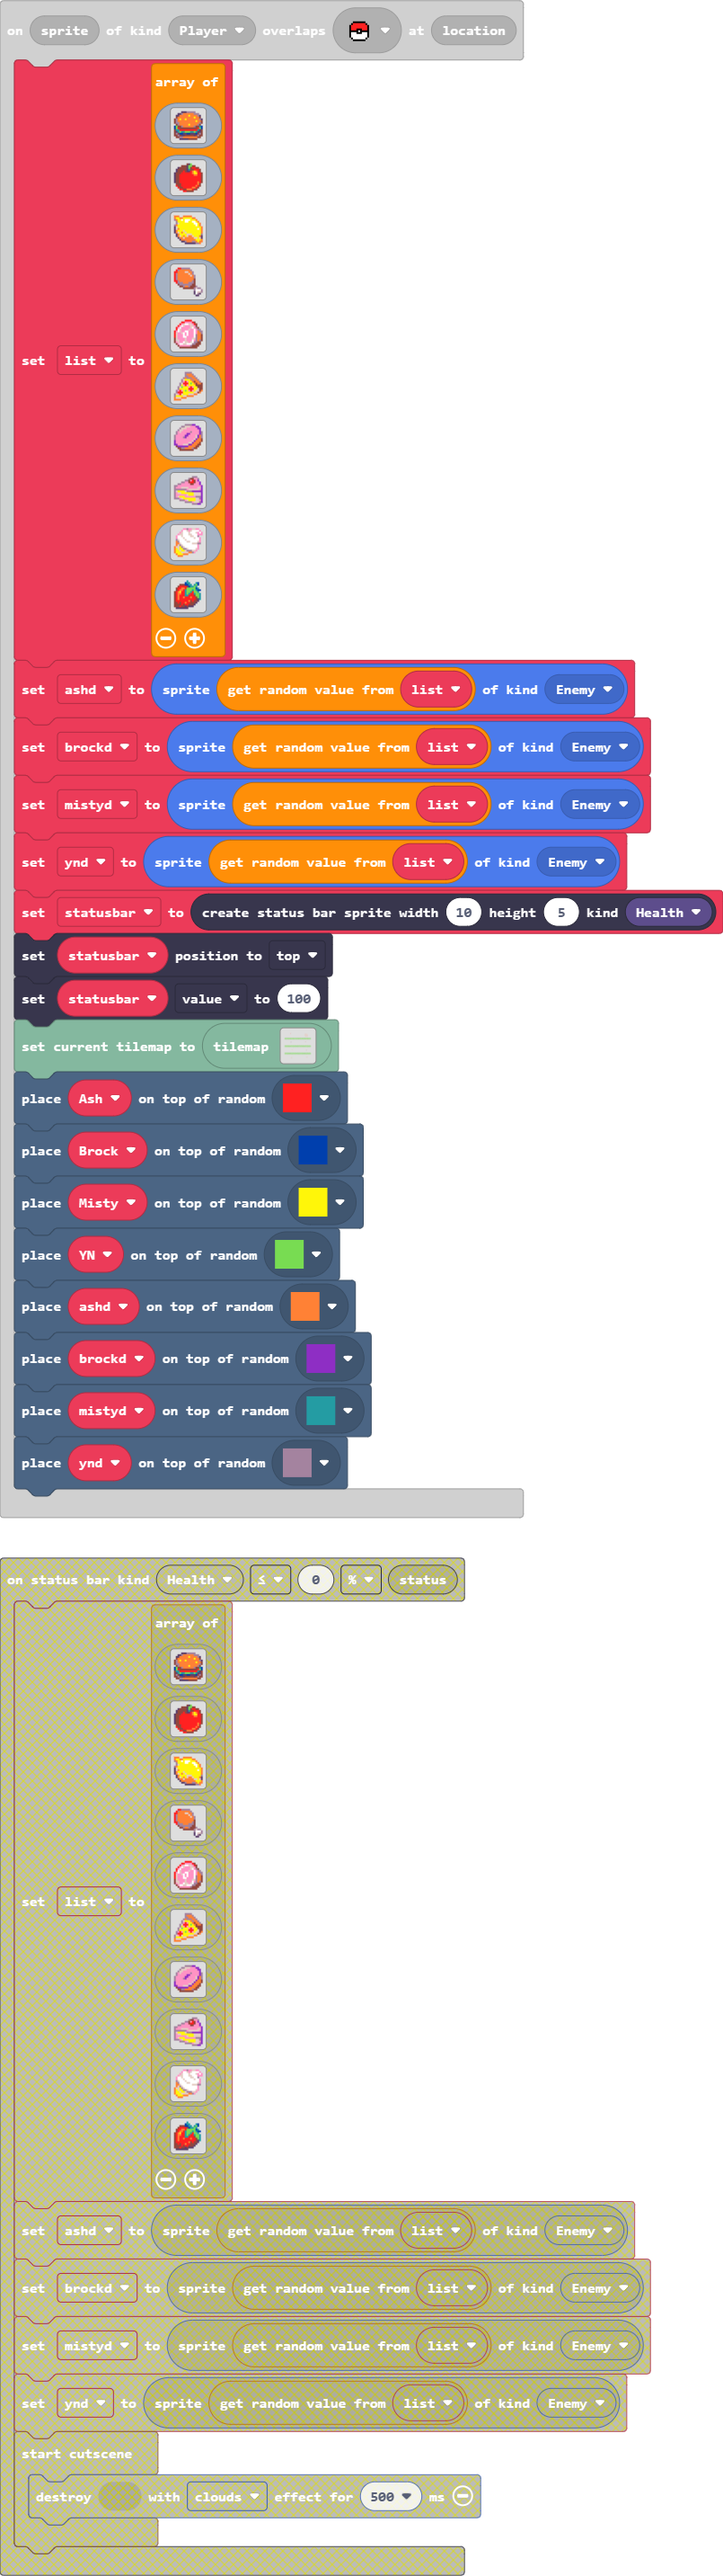
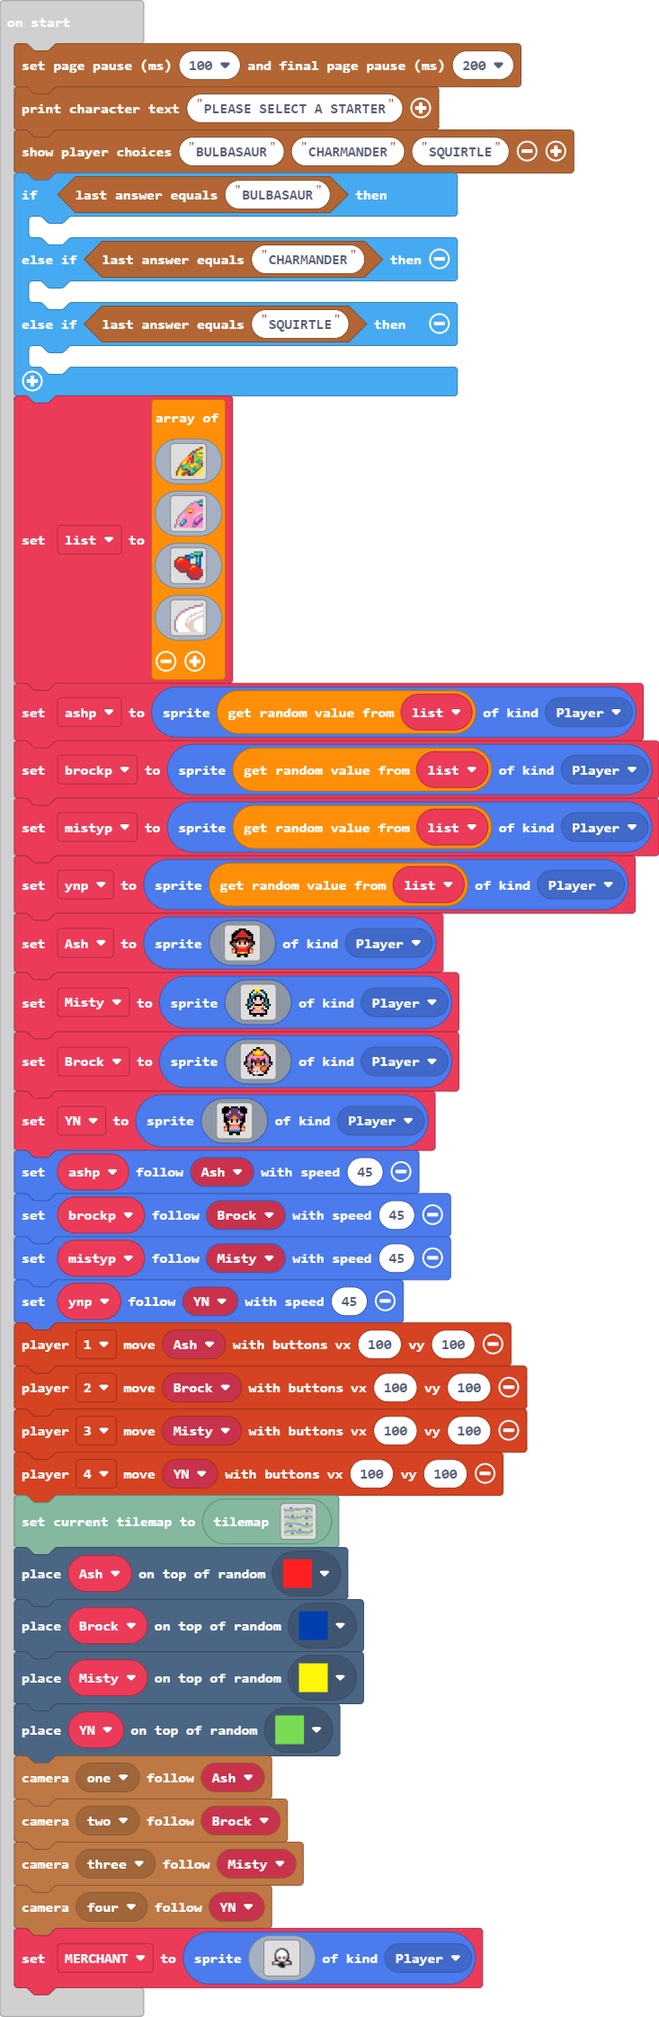
Update pxt.json, main.blocks, main.ts, tilemap.g.jres, tilemap.g.ts, images.g.jres, images.g.ts

diff --git a/tilemap.g.ts b/tilemap.g.ts
@@ -24,6 +24,8 @@ namespace myTiles {
     export const tile10 = image.ofBuffer(hex``);
     //% fixedInstance jres blockIdentity=images._tile
     export const tile11 = image.ofBuffer(hex``);
+    //% fixedInstance jres blockIdentity=images._tile
+    export const tile12 = image.ofBuffer(hex``);
 
     helpers._registerFactory("tilemap", function(name: string) {
         switch(helpers.stringTrim(name)) {
@@ -425,8 +427,27 @@ namespace myTiles {
 . . . . . . . . . . . . . . . . 
 . . . . . . . . . . . . . . . . 
 `, [myTiles.transparency16], TileScale.Sixteen);
+            case "level18":
+            case "level18":return tiles.createTilemap(hex`1000100000000000000000000000000000000000000000000000000000000000000000000000000000000000000000000000000000000000000000000000000000000000000000000000000000000000000000000000000000000000000000000000000000000000000000000000000000000000000000000000000000000000000000000000000000000000000000000000000000000000000000000000000000000000000000000000000000000000000000000000000000000000000000000000000000000000000000000000000000000000000000000000000000000000000000000000000000000000000000000000000000000000000000000000000000000000`, img`
+. . . . . . . . . . . . . . . . 
+. . . . . . . . . . . . . . . . 
+. . . . . . . . . . . . . . . . 
+. . . . . . . . . . . . . . . . 
+. . . . . . . . . . . . . . . . 
+. . . . . . . . . . . . . . . . 
+. . . . . . . . . . . . . . . . 
+. . . . . . . . . . . . . . . . 
+. . . . . . . . . . . . . . . . 
+. . . . . . . . . . . . . . . . 
+. . . . . . . . . . . . . . . . 
+. . . . . . . . . . . . . . . . 
+. . . . . . . . . . . . . . . . 
+. . . . . . . . . . . . . . . . 
+. . . . . . . . . . . . . . . . 
+. . . . . . . . . . . . . . . . 
+`, [myTiles.transparency16], TileScale.Sixteen);
             case "level1":
[2 lines of base64/hex data omitted]
 ....................................................................................................
 ....................2222222222......................................................................
 ....................2222222222......................................................................
@@ -527,7 +548,7 @@ namespace myTiles {
 2222222222222222222222222222222222222222222222222222222222222222222222222222222222222222222222222222
 2222222222222222222222222222222222222222222222222222222222222222222222222222222222222222222222222222
 2222222222222222222222222222222222222222222222222222222222222222222222222222222222222222222222222222
-`, [myTiles.transparency16,sprites.castle.tilePath5,sprites.castle.tilePath8,sprites.castle.tileGrass2,myTiles.tile1,sprites.swamp.swampTile1,myTiles.tile3,myTiles.tile4,myTiles.tile5,myTiles.tile6,myTiles.tile7,sprites.swamp.swampTile2], TileScale.Sixteen);
+`, [myTiles.transparency16,sprites.castle.tilePath5,sprites.castle.tilePath8,sprites.castle.tileGrass2,myTiles.tile1,sprites.swamp.swampTile1,myTiles.tile3,myTiles.tile4,myTiles.tile5,myTiles.tile6,myTiles.tile7,sprites.swamp.swampTile2,myTiles.tile12], TileScale.Sixteen);
         }
         return null;
     })
@@ -557,6 +578,8 @@ namespace myTiles {
             case "tile10":return tile10;
             case "myTile9":
             case "tile11":return tile11;
+            case "myTile10":
+            case "tile12":return tile12;
         }
         return null;
     })

diff --git a/images.g.ts b/images.g.ts
@@ -1,0 +1,44 @@
+// Auto-generated code. Do not edit.
+namespace myImages {
+
+    helpers._registerFactory("image", function(name: string) {
+        switch(helpers.stringTrim(name)) {
+            case "image1":
+            case "myImage":return img`
+d d d d d d d d d d 8 8 d d d d 
+d d d 8 8 d d d d d 8 8 d d d d 
+d d d 8 7 8 d d d 8 7 8 d d d d 
+d d d 8 7 6 8 d 8 8 7 8 d d d d 
+d d d 8 6 7 8 d 8 7 7 8 d 8 8 d 
+d d d 8 8 7 8 8 8 7 7 8 d 8 6 8 
+d d d 8 8 7 6 8 6 7 6 8 8 8 8 6 
+8 8 d 8 8 7 7 8 7 7 8 8 6 7 8 6 
+8 7 8 8 8 7 7 8 7 6 8 7 7 6 8 8 
+8 6 7 6 8 6 7 6 7 6 6 7 6 8 8 7 
+d 8 7 7 6 6 7 6 7 6 7 7 8 8 7 7 
+d d 8 7 7 6 7 8 7 6 7 6 8 7 7 8 
+d d d 8 7 6 7 8 6 6 7 8 6 7 8 8 
+d d d 8 7 8 7 8 6 6 8 8 6 6 8 6 
+d d d 8 6 8 6 8 6 6 8 8 6 6 8 6 
+d d d 8 6 8 6 6 6 6 8 8 6 6 8 6 
+`;
+        }
+        return null;
+    })
+
+    helpers._registerFactory("animation", function(name: string) {
+        switch(helpers.stringTrim(name)) {
+
+        }
+        return null;
+    })
+
+    helpers._registerFactory("song", function(name: string) {
+        switch(helpers.stringTrim(name)) {
+
+        }
+        return null;
+    })
+
+}
+// Auto-generated code. Do not edit.

diff --git a/main.ts b/main.ts
@@ -211,6 +211,16 @@ let Brock: Sprite = null
 let Misty: Sprite = null
 let Ash: Sprite = null
 let list: Image[] = []
+story.setPagePauseLength(100, 200)
+story.printCharacterText("PLEASE SELECT A STARTER")
+story.showPlayerChoices("BULBASAUR", "CHARMANDER", "SQUIRTLE")
+if (story.checkLastAnswer("BULBASAUR")) {
+	
+} else if (story.checkLastAnswer("CHARMANDER")) {
+	
+} else if (story.checkLastAnswer("SQUIRTLE")) {
+	
+}
 list = [
 img`
     . . . . . . . . . . . . . . e e 
